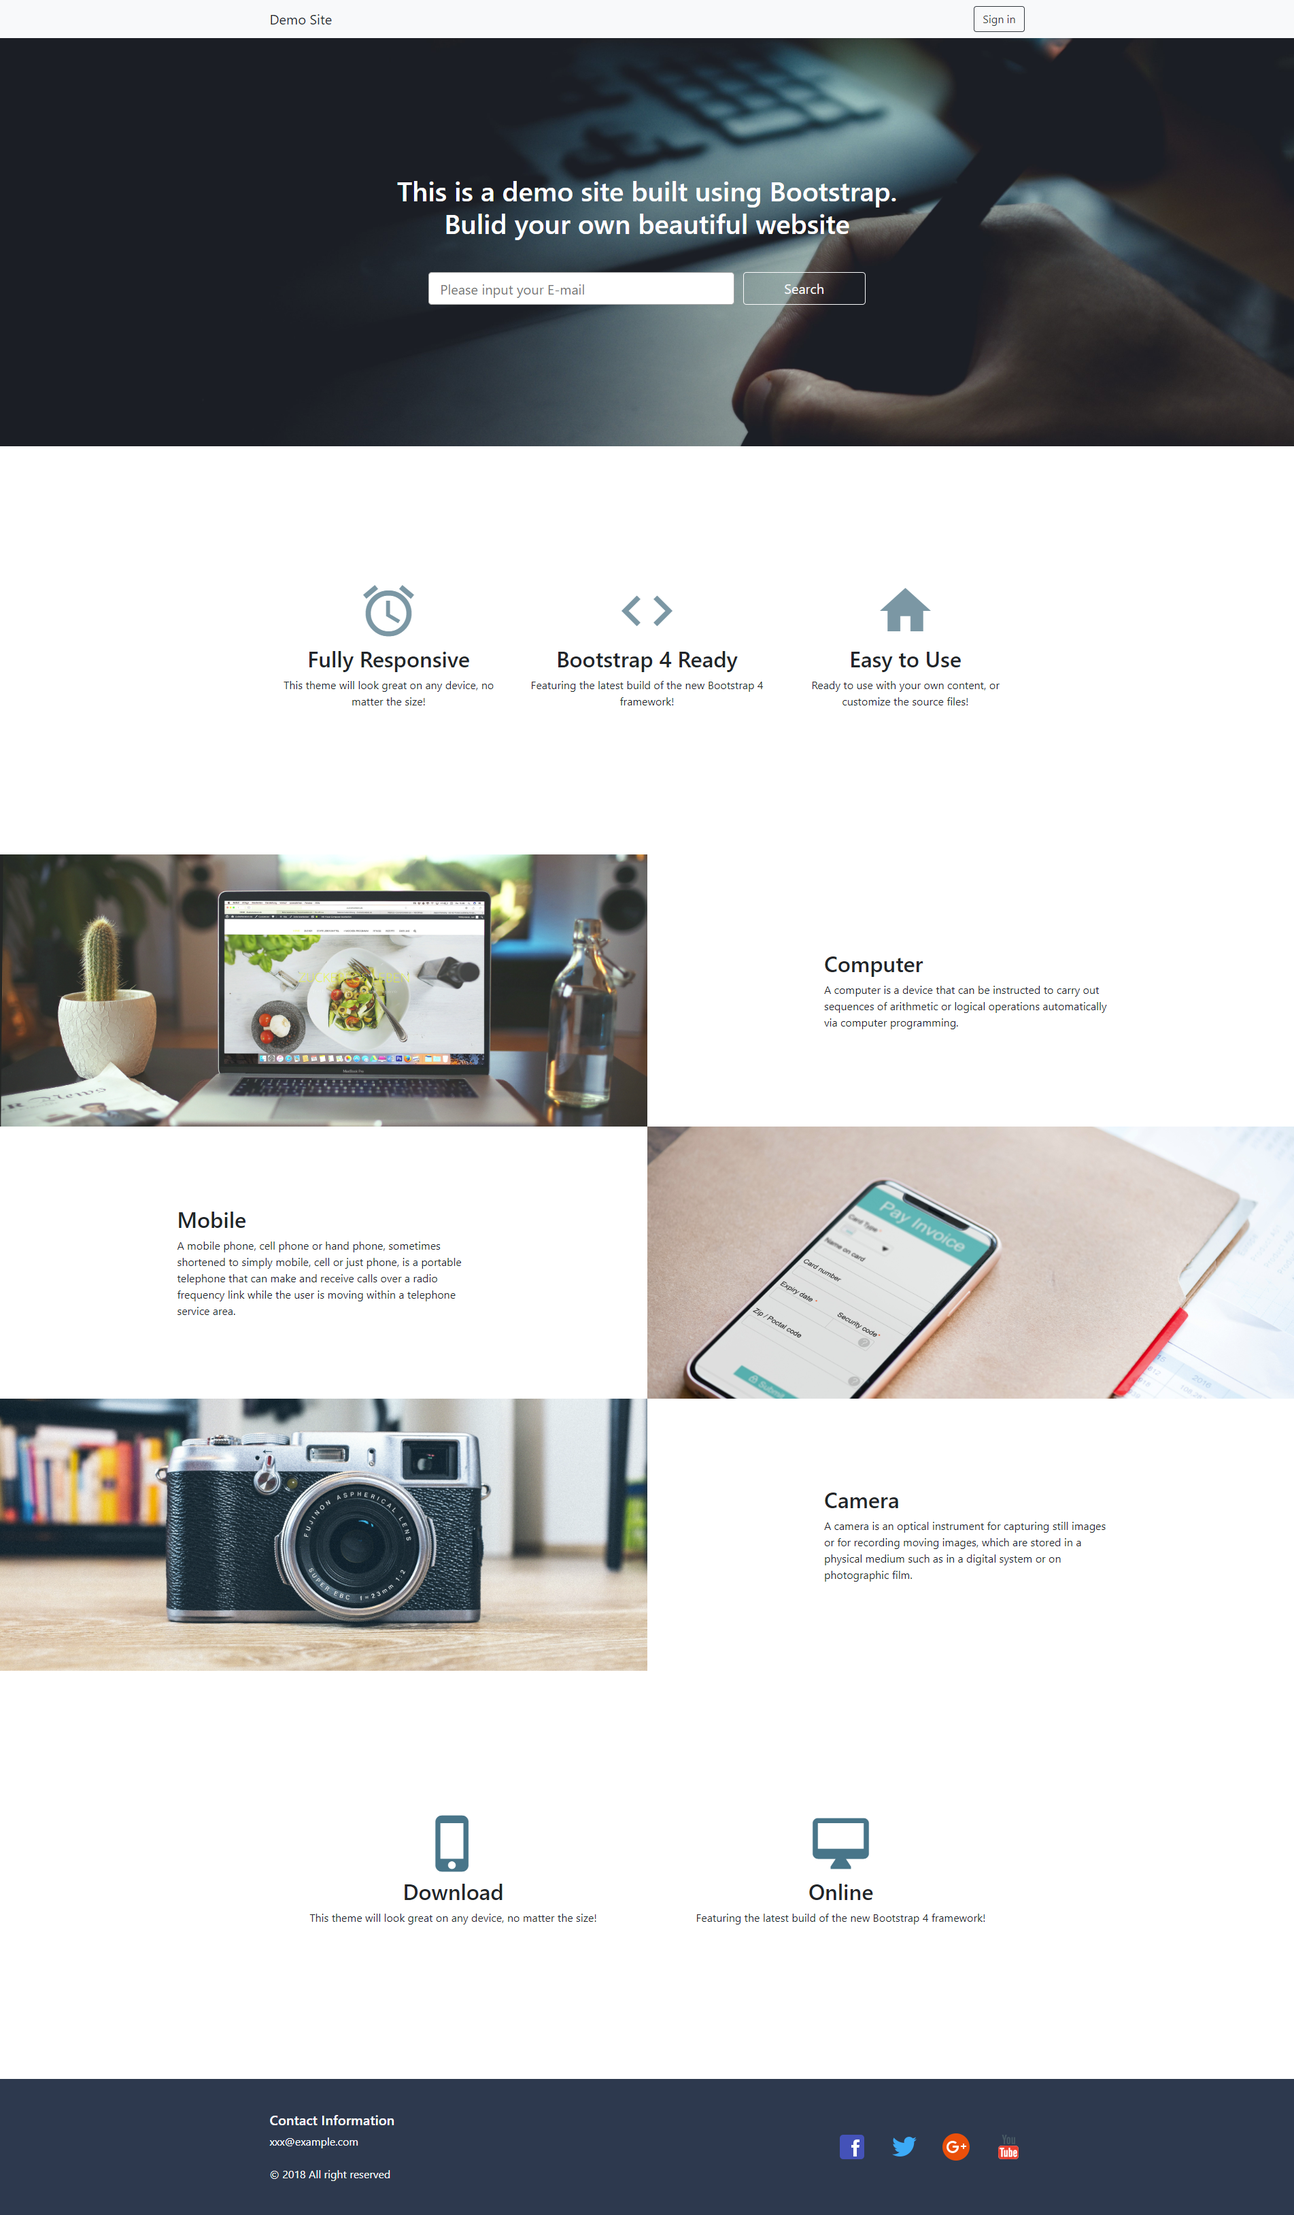
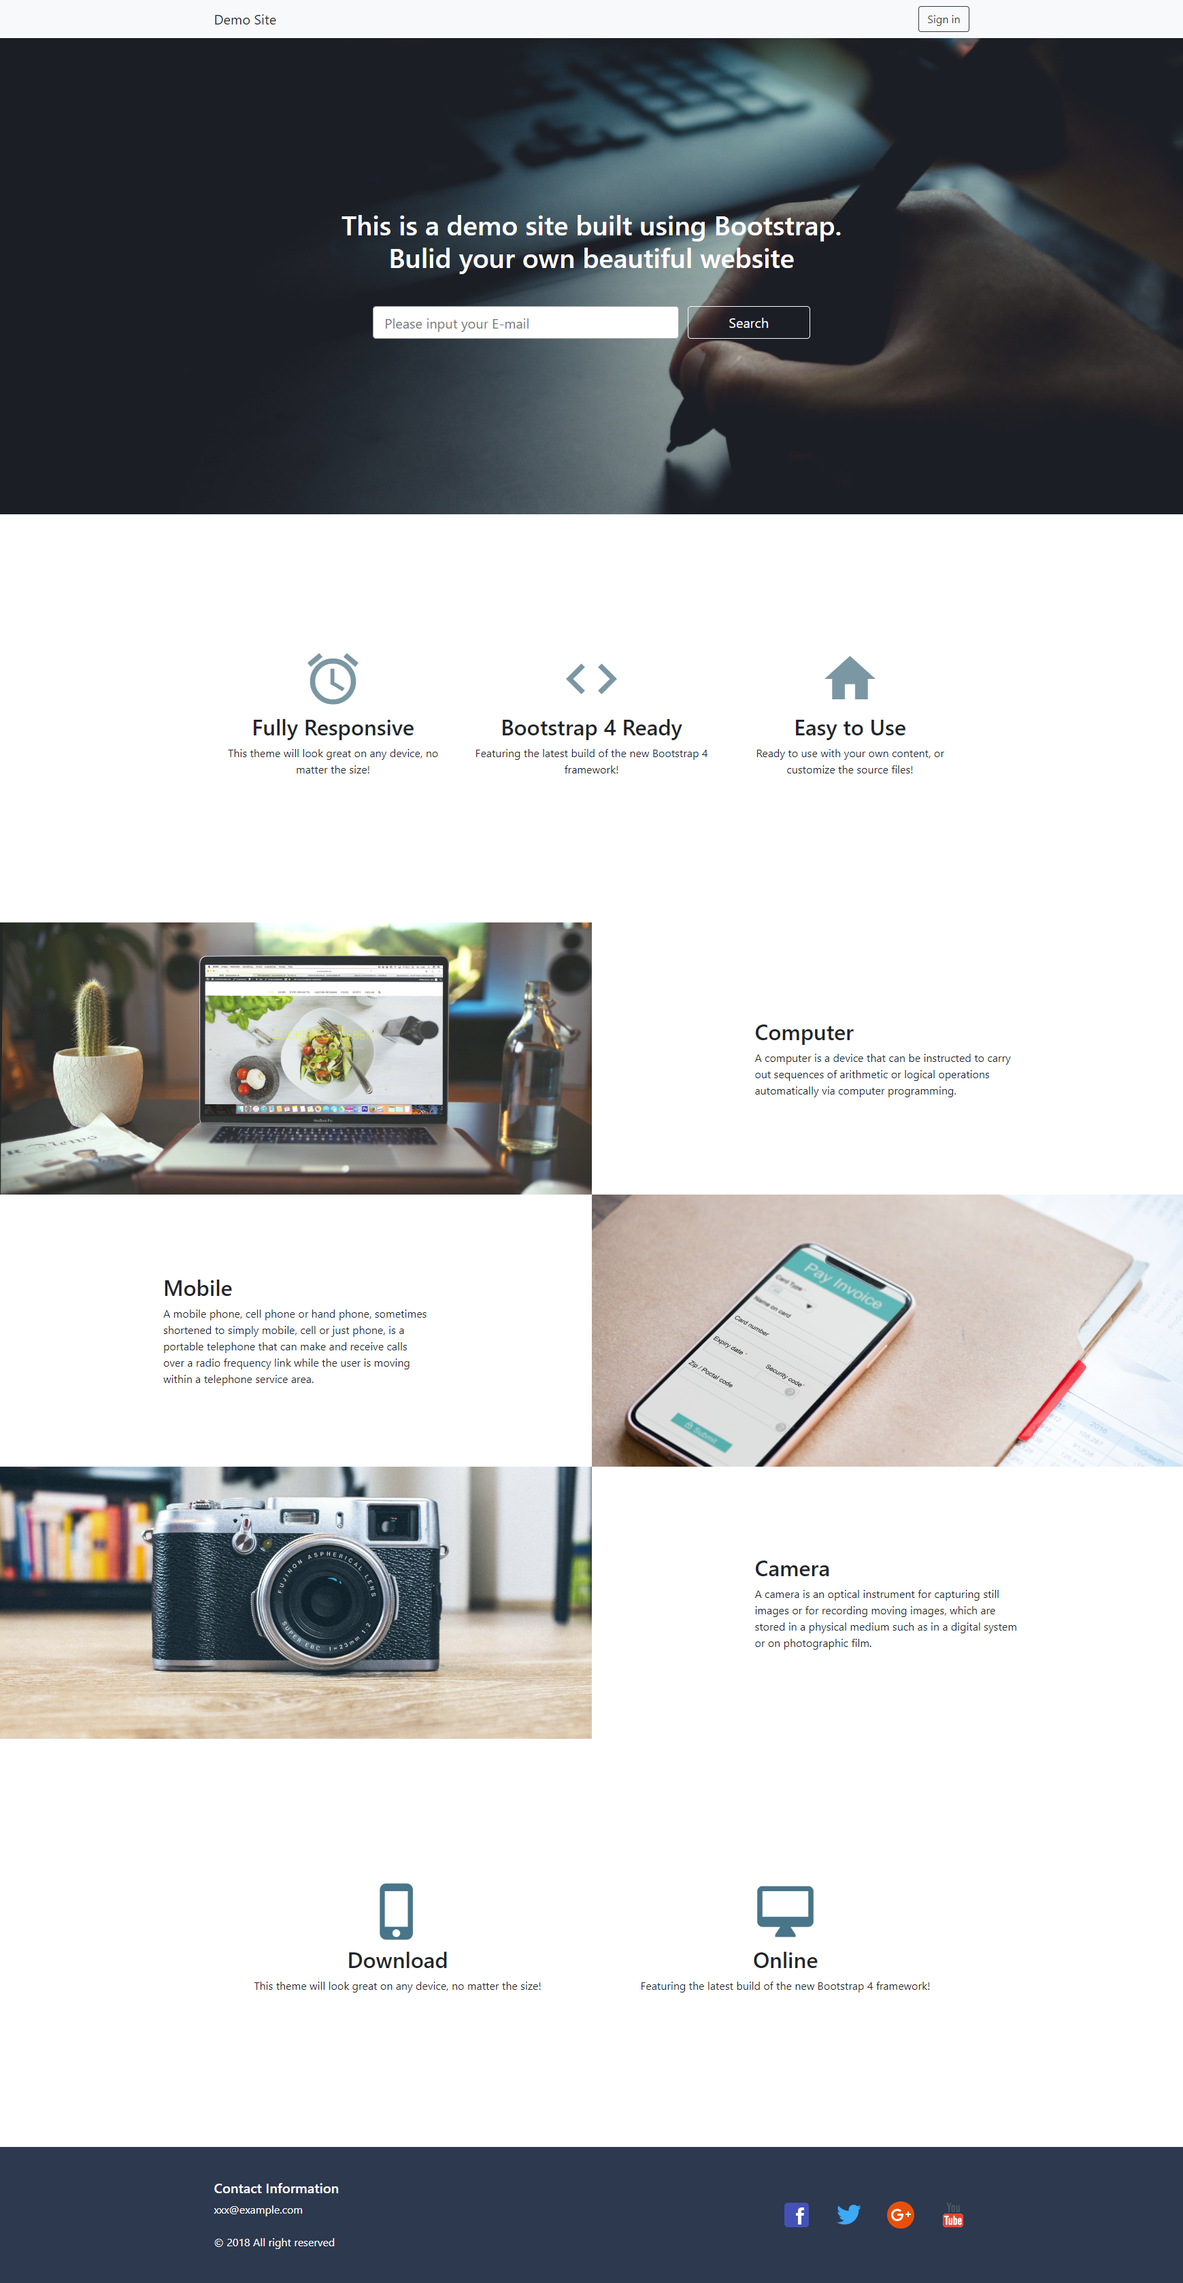
Add animation

diff --git a/main.html b/main.html
@@ -1,154 +1,159 @@
 <!doctype html>
 <html lang="en">
-  <head>
-    <!-- Required meta tags -->
-    <meta charset="utf-8">
-    <meta name="viewport" content="width=device-width, initial-scale=1, shrink-to-fit=no">
-    <!-- Bootstrap CSS -->
-    <link rel="stylesheet" href="https://stackpath.bootstrapcdn.com/bootstrap/4.1.3/css/bootstrap.min.css" integrity="sha384-MCw98/SFnGE8fJT3GXwEOngsV7Zt27NXFoaoApmYm81iuXoPkFOJwJ8ERdknLPMO" crossorigin="anonymous">
-    <link href="https://fonts.googleapis.com/icon?family=Material+Icons" rel="stylesheet">
-    <title>Demo website</title>
+    <head>
+        <!-- Required meta tags -->
+        <meta charset="utf-8">
+        <meta name="viewport" content="width=device-width, initial-scale=1, shrink-to-fit=no">
+        <!-- Bootstrap CSS -->
+        <link rel="stylesheet" href="https://stackpath.bootstrapcdn.com/bootstrap/4.1.3/css/bootstrap.min.css" integrity="sha384-MCw98/SFnGE8fJT3GXwEOngsV7Zt27NXFoaoApmYm81iuXoPkFOJwJ8ERdknLPMO" crossorigin="anonymous">
+        <link href="https://fonts.googleapis.com/icon?family=Material+Icons" rel="stylesheet">
+        <link rel="stylesheet" href="https://unpkg.com/aos@next/dist/aos.css" />
+        <title>Demo website</title>
 
-  </head>
+    </head>
 
-  <body>
-    <nav class="navbar navbar-light bg-light justify-content-between" style="background-color: #e3f2fd;">
-        <div class="container">
-            <a class="navbar-brand">Demo Site</a>
-            <form class="form-inline">
-            <button class="btn btn-outline-dark" type="submit">Sign in</button>
-            </form>
+    <body>
+        <nav class="navbar navbar-light bg-light justify-content-between" style="background-color: #e3f2fd;">
+            <div class="container">
+                <a class="navbar-brand">Demo Site</a>
+                <form class="form-inline">
+                <button class="btn btn-outline-dark" type="submit">Sign in</button>
+                </form>
+            </div>
+        </nav>
+
+        <div class="container-fluid text-white" style="background-image: url(./img/banner.jpg); height: 700px; background-size: cover;">
+            <div class="container" style="position: relative; top: 50%; transform: translateY(-50%);">
+                <div class="row">
+                    <div class="col-md-12 col-md-9 col-md-6 mx-auto">
+                        <h1 class="card-title text-center mb-5 col-md-9"
+                        style="margin: 0 auto"
+                        >This is a demo site built using Bootstrap. Bulid your own beautiful website</h1>
+                        <form class="form">
+                            <div class="container text-center">
+                            <input class="form-control-lg mr-sm-2 align-middle mb-2 col-md-5 col-12" type="text" 
+                                placeholder="Please input your E-mail"
+                                style="border: 1px rgb(165, 165, 165) solid"
+                                >
+                            <button class="btn btn-outline-light align-middle btn-lg mb-2 col-md-2 col-12" type="submit">Search</button>
+                            </div>
+                        </form>
+                    </div>
+                </div>
+            </div>
         </div>
-    </nav>
 
-    <div class="container-fluid text-white" style="background-image: url(./img/banner.jpg); height: 600px; background-size: cover;">
-        <div class="container" style="position: relative; top: 50%; transform: translateY(-50%);">
+        <div class="container" style="height: 600px;">
+            <div class="row" style="position: relative; top: 50%; transform: translateY(-50%);">
+                <div class="col text-center col-md-4 col-12" data-aos="fade-right">
+                    <i class="material-icons col text-center"
+                    style="font-size: 90px; color:rgb(119, 151, 163)"
+                    >alarm</i>
+                    <h2>Fully Responsive</h2>
+                    <p>This theme will look great on any device, no matter the size!</p>
+                </div>
+                <div class="col text-center col-md-4 col-12" data-aos="fade-up">
+                    <i class="material-icons col text-center"
+                    style="font-size: 90px; color:rgb(119, 151, 163)"
+                    >code</i>
+                    <h2>Bootstrap 4 Ready</h2>
+                    <p>Featuring the latest build of the new Bootstrap 4 framework!</p>
+                </div>
+                <div class="col text-center col-md-4 col-12" data-aos="fade-left">
+                    <i class="material-icons col text-center"
+                    style="font-size: 90px; color:rgb(119, 151, 163)"
+                    >home</i>
+                    <h2>Easy to Use</h2>
+                    <p>Ready to use with your own content, or customize the source files!</p>
+                </div>
+            </div>
+        </div>
+            
+        <div class="container-fluid">
             <div class="row">
-                <div class="col-md-12 col-md-9 col-md-6 mx-auto">
-                    <h1 class="card-title text-center mb-5 col-md-9"
-                    style="margin: 0 auto"
-                    >This is a demo site built using Bootstrap. Bulid your own beautiful website</h1>
-                    <form class="form">
-                        <div class="container text-center">
-                        <input class="form-control-lg mr-sm-2 align-middle mb-2 col-md-5 col-12" type="text" 
-                            placeholder="Please input your E-mail"
-                            style="border: 1px rgb(165, 165, 165) solid"
-                            >
-                        <button class="btn btn-outline-light align-middle btn-lg mb-2 col-md-2 col-12" type="submit">Search</button>
+                <div class="col col-md-6 col-12 order-md-1" data-aos="fade-right" style="background-image: url(./img/computer-min.jpg); height: 400px; background-size: cover;"></div>
+
+                <div class="col col-md-6 col-12 order-md-2" data-aos="fade-left">
+                    <div class="col-md-6" style="position: relative; top: 50%; transform: translateY(-50%); margin: 0 auto">
+                        <h2>Computer</h2>
+                        <p>A computer is a device that can be instructed to carry out sequences of arithmetic or logical operations automatically via computer programming. </p>
+                    </div>
+                </div>
+            </div>
+
+            <div class="row">
+                <div class="col col-md-6 col-12 order-md-2" data-aos="fade-left" style="background-image: url(./img/iphone-min.jpg); height: 400px; background-size: cover;"></div>
+
+                <div class="col col-md-6 col-12 order-md-1" data-aos="fade-right">
+                    <div class="col-md-6" style="position: relative; top: 50%; transform: translateY(-50%); margin: 0 auto">
+                        <h2>Mobile</h2>
+                        <p>A mobile phone, cell phone or hand phone, sometimes shortened to simply mobile, cell or just phone, is a portable telephone that can make and receive calls over a radio frequency link while the user is moving within a telephone service area.</p>
+                    </div>
+                </div>
+            </div>
+
+            <div class="row">
+                <div class="col col-md-6 col-12 order-md-1" data-aos="fade-right" style="background-image: url(./img/camera-min.jpg); height: 400px; background-size: cover;"></div>
+
+                <div class="col col-md-6 col-12 order-md-2" data-aos="fade-left">
+                    <div class="col-md-6" style="position: relative; top: 50%; transform: translateY(-50%); margin: 0 auto">
+                        <h2>Camera</h2>
+                        <p>A camera is an optical instrument for capturing still images or for recording moving images, which are stored in a physical medium such as in a digital system or on photographic film. </p>
+                    </div>
+                </div>
+            </div>
+        </div>
+
+        <div class="container" style="height: 600px;">
+            <div class="row" style="position: relative; top: 50%; transform: translateY(-50%);">
+                <div class="col text-center col-md-6 col-12" data-aos="fade-up">
+                    <i class="material-icons col text-center"
+                    style="font-size: 90px; color:rgb(65, 117, 136)"
+                    >phone_iphone</i>
+                    <h2>Download</h2>
+                    <p>This theme will look great on any device, no matter the size!</p>
+                </div>
+                <div class="col text-center col-md-6 col-12" data-aos="fade-up">
+                    <i class="material-icons col text-center"
+                    style="font-size: 90px; color:rgb(65, 117, 136)"
+                    >desktop_mac</i>
+                    <h2>Online</h2>
+                    <p>Featuring the latest build of the new Bootstrap 4 framework!</p>
+                </div>
+            </div>
+        </div>
+
+        <div class="container-fluid" style="background-color: rgb(43, 57, 77); height: 200px">
+            <div class="container">
+                <div class="row" style="height: 200px">
+                    <div class="col col-md-6 col-12" style="color: white;">
+                        <div class="text-center text-md-left" style="position: relative; top: 50%; transform: translateY(-50%); margin: 0 auto;">
+                            <h5 >Contact Information</h5>
+                            <p class="mb-4">xxx@example.com</p>
+                            <p>© 2018 All right reserved</p>
                         </div>
-                    </form>
-                </div>
-            </div>
-        </div>
-    </div>
-
-    <div class="container" style="height: 600px;">
-        <div class="row" style="position: relative; top: 50%; transform: translateY(-50%);">
-            <div class="col text-center col-md-4 col-12">
-                <i class="material-icons col text-center"
-                style="font-size: 90px; color:rgb(119, 151, 163)"
-                >alarm</i>
-                <h2>Fully Responsive</h2>
-                <p>This theme will look great on any device, no matter the size!</p>
-            </div>
-            <div class="col text-center col-md-4 col-12">
-                <i class="material-icons col text-center"
-                style="font-size: 90px; color:rgb(119, 151, 163)"
-                >code</i>
-                <h2>Bootstrap 4 Ready</h2>
-                <p>Featuring the latest build of the new Bootstrap 4 framework!</p>
-            </div>
-            <div class="col text-center col-md-4 col-12">
-                <i class="material-icons col text-center"
-                style="font-size: 90px; color:rgb(119, 151, 163)"
-                >home</i>
-                <h2>Easy to Use</h2>
-                <p>Ready to use with your own content, or customize the source files!</p>
-            </div>
-        </div>
-    </div>
-        
-    <div class="container-fluid">
-        <div class="row">
-            <div class="col col-md-6 col-12 order-md-1" style="background-image: url(./img/computer.jpg); height: 400px; background-size: cover;"></div>
-
-            <div class="col col-md-6 col-12 order-md-2">
-                <div class="col-md-6" style="position: relative; top: 50%; transform: translateY(-50%); margin: 0 auto">
-                    <h2>Computer</h2>
-                    <p>A computer is a device that can be instructed to carry out sequences of arithmetic or logical operations automatically via computer programming. </p>
-                </div>
-            </div>
-        </div>
-
-        <div class="row">
-            <div class="col col-md-6 col-12 order-md-2" style="background-image: url(./img/iphone.jpg); height: 400px; background-size: cover;"></div>
-
-            <div class="col col-md-6 col-12 order-md-1">
-                <div class="col-md-6" style="position: relative; top: 50%; transform: translateY(-50%); margin: 0 auto">
-                    <h2>Mobile</h2>
-                    <p>A mobile phone, cell phone or hand phone, sometimes shortened to simply mobile, cell or just phone, is a portable telephone that can make and receive calls over a radio frequency link while the user is moving within a telephone service area.</p>
-                </div>
-            </div>
-        </div>
-
-        <div class="row">
-            <div class="col col-md-6 col-12 order-md-1" style="background-image: url(./img/camera.jpg); height: 400px; background-size: cover;"></div>
-
-            <div class="col col-md-6 col-12 order-md-2">
-                <div class="col-md-6" style="position: relative; top: 50%; transform: translateY(-50%); margin: 0 auto">
-                    <h2>Camera</h2>
-                    <p>A camera is an optical instrument for capturing still images or for recording moving images, which are stored in a physical medium such as in a digital system or on photographic film. </p>
-                </div>
-            </div>
-        </div>
-    </div>
-
-    <div class="container" style="height: 600px;">
-        <div class="row" style="position: relative; top: 50%; transform: translateY(-50%);">
-            <div class="col text-center col-md-6 col-12">
-                <i class="material-icons col text-center"
-                style="font-size: 90px; color:rgb(65, 117, 136)"
-                >phone_iphone</i>
-                <h2>Download</h2>
-                <p>This theme will look great on any device, no matter the size!</p>
-            </div>
-            <div class="col text-center col-md-6 col-12">
-                <i class="material-icons col text-center"
-                style="font-size: 90px; color:rgb(65, 117, 136)"
-                >desktop_mac</i>
-                <h2>Online</h2>
-                <p>Featuring the latest build of the new Bootstrap 4 framework!</p>
-            </div>
-        </div>
-    </div>
-
-    <div class="container-fluid" style="background-color: rgb(43, 57, 77); height: 200px">
-        <div class="container">
-            <div class="row" style="height: 200px">
-                <div class="col col-md-6 col-12" style="color: white;">
-                    <div class="text-center text-md-left" style="position: relative; top: 50%; transform: translateY(-50%); margin: 0 auto;">
-                        <h5 >Contact Information</h5>
-                        <p class="mb-4">xxx@example.com</p>
-                        <p>© 2018 All right reserved</p>
                     </div>
-                </div>
-                <div class="col col-md-6 col-12">
-                    <div class="text-center text-md-right" style="position: relative; top: 50%; transform: translateY(-50%); margin: 0 auto; overflow: hidden;">
-                        <img class="mr-4" src="https://img.icons8.com/color/48/000000/facebook.png">
-                        <img class="mr-4" src="https://img.icons8.com/color/48/000000/twitter.png">
-                        <img class="mr-4" src="https://img.icons8.com/color/48/000000/google-plus.png">
-                        <img class="" src="https://img.icons8.com/color/48/000000/youtube.png">
+                    <div class="col col-md-6 col-12">
+                        <div class="text-center text-md-right" style="position: relative; top: 50%; transform: translateY(-50%); margin: 0 auto; overflow: hidden;">
+                            <img class="mr-4" src="https://img.icons8.com/color/48/000000/facebook.png">
+                            <img class="mr-4" src="https://img.icons8.com/color/48/000000/twitter.png">
+                            <img class="mr-4" src="https://img.icons8.com/color/48/000000/google-plus.png">
+                            <img class="" src="https://img.icons8.com/color/48/000000/youtube.png">
+                        </div>
                     </div>
                 </div>
             </div>
         </div>
-    </div>
-        
+            
 
-    <!-- Optional JavaScript -->
-    <!-- jQuery first, then Popper.js, then Bootstrap JS -->
-    <script src="https://code.jquery.com/jquery-3.3.1.slim.min.js" integrity="sha384-q8i/X+965DzO0rT7abK41JStQIAqVgRVzpbzo5smXKp4YfRvH+8abtTE1Pi6jizo" crossorigin="anonymous"></script>
-    <script src="https://cdnjs.cloudflare.com/ajax/libs/popper.js/1.14.3/umd/popper.min.js" integrity="sha384-ZMP7rVo3mIykV+2+9J3UJ46jBk0WLaUAdn689aCwoqbBJiSnjAK/l8WvCWPIPm49" crossorigin="anonymous"></script>
-    <script src="https://stackpath.bootstrapcdn.com/bootstrap/4.1.3/js/bootstrap.min.js" integrity="sha384-ChfqqxuZUCnJSK3+MXmPNIyE6ZbWh2IMqE241rYiqJxyMiZ6OW/JmZQ5stwEULTy" crossorigin="anonymous"></script>
-  </body>
+        <!-- Optional JavaScript -->
+        <!-- jQuery first, then Popper.js, then Bootstrap JS -->
+        <script src="https://code.jquery.com/jquery-3.3.1.slim.min.js" integrity="sha384-q8i/X+965DzO0rT7abK41JStQIAqVgRVzpbzo5smXKp4YfRvH+8abtTE1Pi6jizo" crossorigin="anonymous"></script>
+        <script src="https://cdnjs.cloudflare.com/ajax/libs/popper.js/1.14.3/umd/popper.min.js" integrity="sha384-ZMP7rVo3mIykV+2+9J3UJ46jBk0WLaUAdn689aCwoqbBJiSnjAK/l8WvCWPIPm49" crossorigin="anonymous"></script>
+        <script src="https://stackpath.bootstrapcdn.com/bootstrap/4.1.3/js/bootstrap.min.js" integrity="sha384-ChfqqxuZUCnJSK3+MXmPNIyE6ZbWh2IMqE241rYiqJxyMiZ6OW/JmZQ5stwEULTy" crossorigin="anonymous"></script>
+        <script src="https://unpkg.com/aos@next/dist/aos.js"></script>
+        <script>
+        AOS.init();
+        </script>
+    </body>
 </html>
